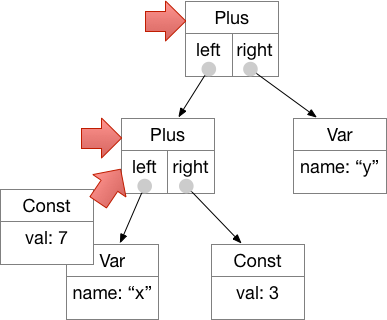
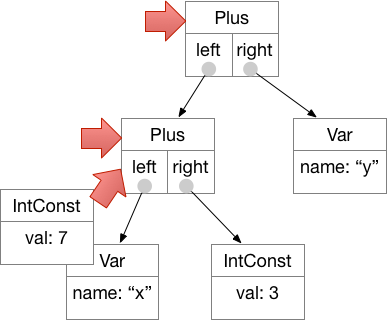
Revised graphics to match current class names and text to match using a single module-level environment.

Changed region(s): [[0.5581, 0.7812, 0.7752, 0.8438], [0.031, 0.625, 0.2171, 0.6875]]

diff --git a/doc/HOWTO.md b/doc/HOWTO.md
@@ -328,7 +328,7 @@ I'll leave that to you to write.
 
 One of the ways we can visualize an expression is as a tree.  In software development and computer science we draw trees upside down, with the "root" or "root node" at the top and "leaves" or "leaf nodes" at the bottom.  
 
-![Expressions are Trees](doc/img/Expr-Tree.png)
+![Expressions are Trees](img/Expr-Tree.png)
 
 Viewed this way, the base case of the recursion is in the methods in the leaf nodes, and all other nodes perform the recursive case.  You can view the recursive computation as "walking" the tree, systematically working its way down to the leaves and returning values upwards. 
 
@@ -447,34 +447,34 @@ called ```pop```.)
 Let's consider what the sequence should be for ````6 5 + 4 +```. 
 Initially the stack is empty. 
 
-![Initial parse state](doc/img/RPN-calc-1.png)
+![Initial parse state](img/RPN-calc-1.png)
 
 We process the first token (6) and push a corresponding ```IntConst```
 object
 
-![After pushing an IntConst](doc/img/RPN-calc-2.png)
+![After pushing an IntConst](img/RPN-calc-2.png)
 
 We likewise push the next value.
 
-![After pushing 6 and 5](doc/img/RPN-calc-3.png)
+![After pushing 6 and 5](img/RPN-calc-3.png)
 
 The next token is '+'.  We want to create a ```Plus``` node for it.  Where 
 are the left and right operands?  On the stack.  We pop them, build the ```Plus```
 object, and push it onto the stack. 
 
-![Plus](doc/img/RPN-calc-4.png)
+![Plus](img/RPN-calc-4.png)
 
 Next we have an another integer, 4.  We push it onto the stack just as 
 we did with the others. 
 
-![Another integer](doc/img/RPN-calc-5.png)
+![Another integer](img/RPN-calc-5.png)
 
 Finally we have another '+'.  We treat it exactly like the 
 first: Pop the two operands, build the ```Plus``` object, 
 and push it.  The only difference is that this time the 
 left operand will be another ```Plus``` node. 
 
-![Second Plus](doc/img/RPN-calc-6.png)
+![Second Plus](img/RPN-calc-6.png)
 
 At the conclusion of this, if the input was 
 syntactically correct, the top element of the stack 
@@ -535,7 +535,7 @@ Repeating code that is almost the same is not good.  It gives us too
 many chances to make errors, particularly sometime in the future when we 
 change some of that code but fail to change it everywhere consistently.  
 
-![Unhappy programmer](doc/img/unhappy.png)
+![Unhappy programmer](img/unhappy.png)
 
 
 ## DRY it out! 
@@ -677,7 +677,7 @@ This is a good time to write a ```Div``` class and a ```Minus``` class.
 operations like ```Remainder```, implemented by ```%``` in Python. 
 Adding a new binary operator in ```expr.py``` has become very simple. 
 
-![It's DRY now](doc/img/happy.png)
+![It's DRY now](img/happy.png)
 
 ## Unary operations
 

diff --git a/doc/LLPARSING.md b/doc/LLPARSING.md
@@ -95,9 +95,11 @@ etc. were written to follow the grammar.  (In fact I first designed the
 grammar, then cranked out the corresponding code while reading the grammar.)
 This grammar uses a few shorthand features that make it more compact. 
 The symbol "|" means "or", so 
+
 ```
 #  primary ::= IDENT | CONST | '(' exp ')'
 ```
+
 means that a *primary* can be an identifier, an integer constant, or 
 a parenthesized expression (and the function ```_primary``` will have 
 to predict which of those alternatives to match by looking at a 
@@ -106,6 +108,7 @@ an item that may be repeated zero or more times.
 
 Notice that the precedence of arithmetic operations is captured by a hierarchy
 of grammar symbols: 
+
 ```
 #  exp ::= term { ('+'|'-') term }
 #  term ::= primary { ('*'|'/')  primary }

diff --git a/README.md b/README.md
@@ -86,12 +86,12 @@ our way recursively down to the Var node at the leftmost leaf:
 ![Expression tree](doc/img/expr-eval-1.png)
 
 We have bound variable *x* to the constant value 7 with the assignment
-```7 x =```, so the eval(env) method applied to Var("x") returns the
+```7 x =```, so the eval() method applied to Var("x") returns the
 value IntConst(7):  
 
 ![Expression tree](doc/img/expr-eval-2.png)
 
-The IntConst(3).eval(env) returns IntConst(3), so now the Plus node can be
+The IntConst(3).eval() returns IntConst(3), so now the Plus node can be
 evaluated.  Seeing that both of its operands have evaluated to
 constants, it can add them and produce IntConst(10).  
 
